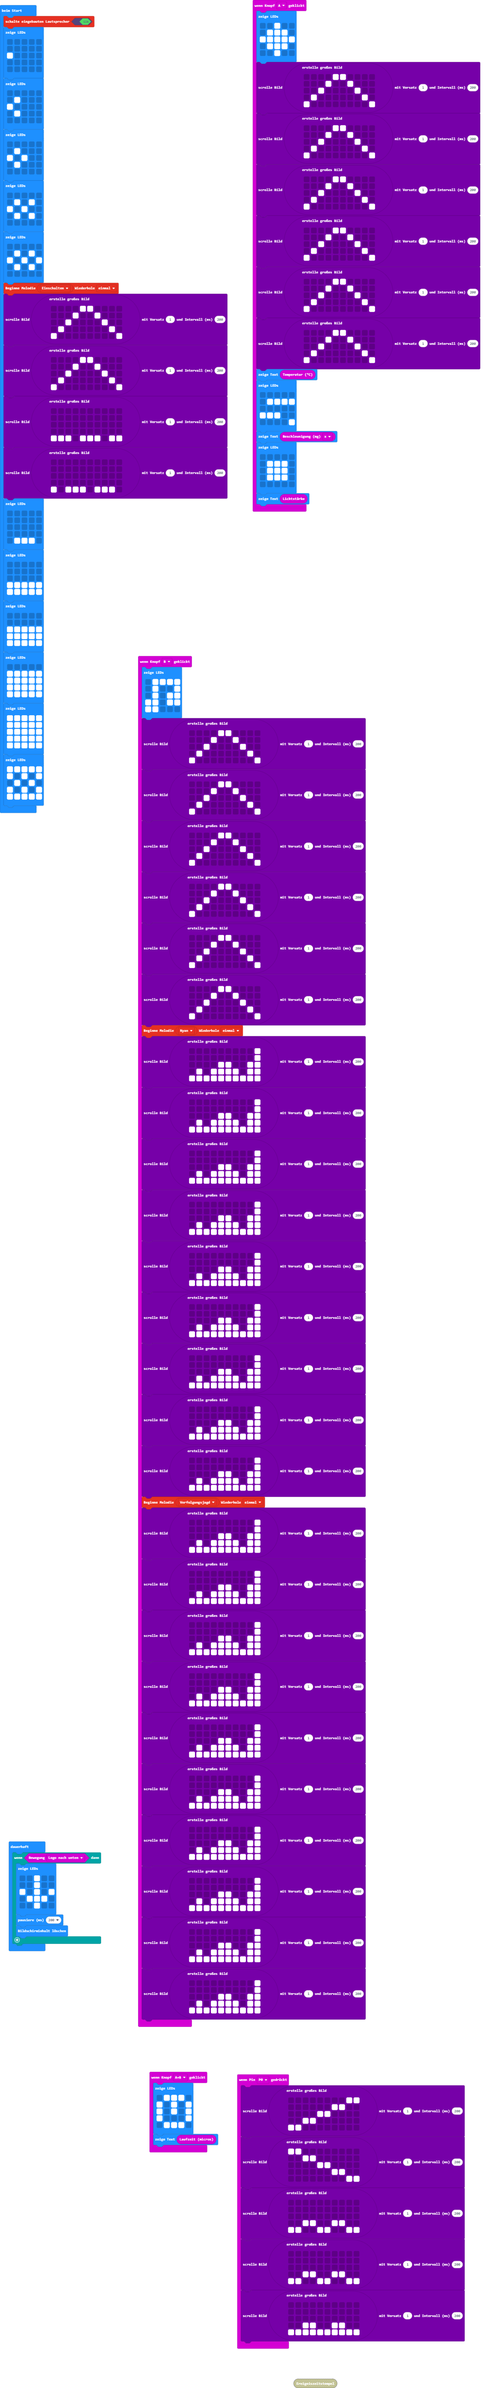
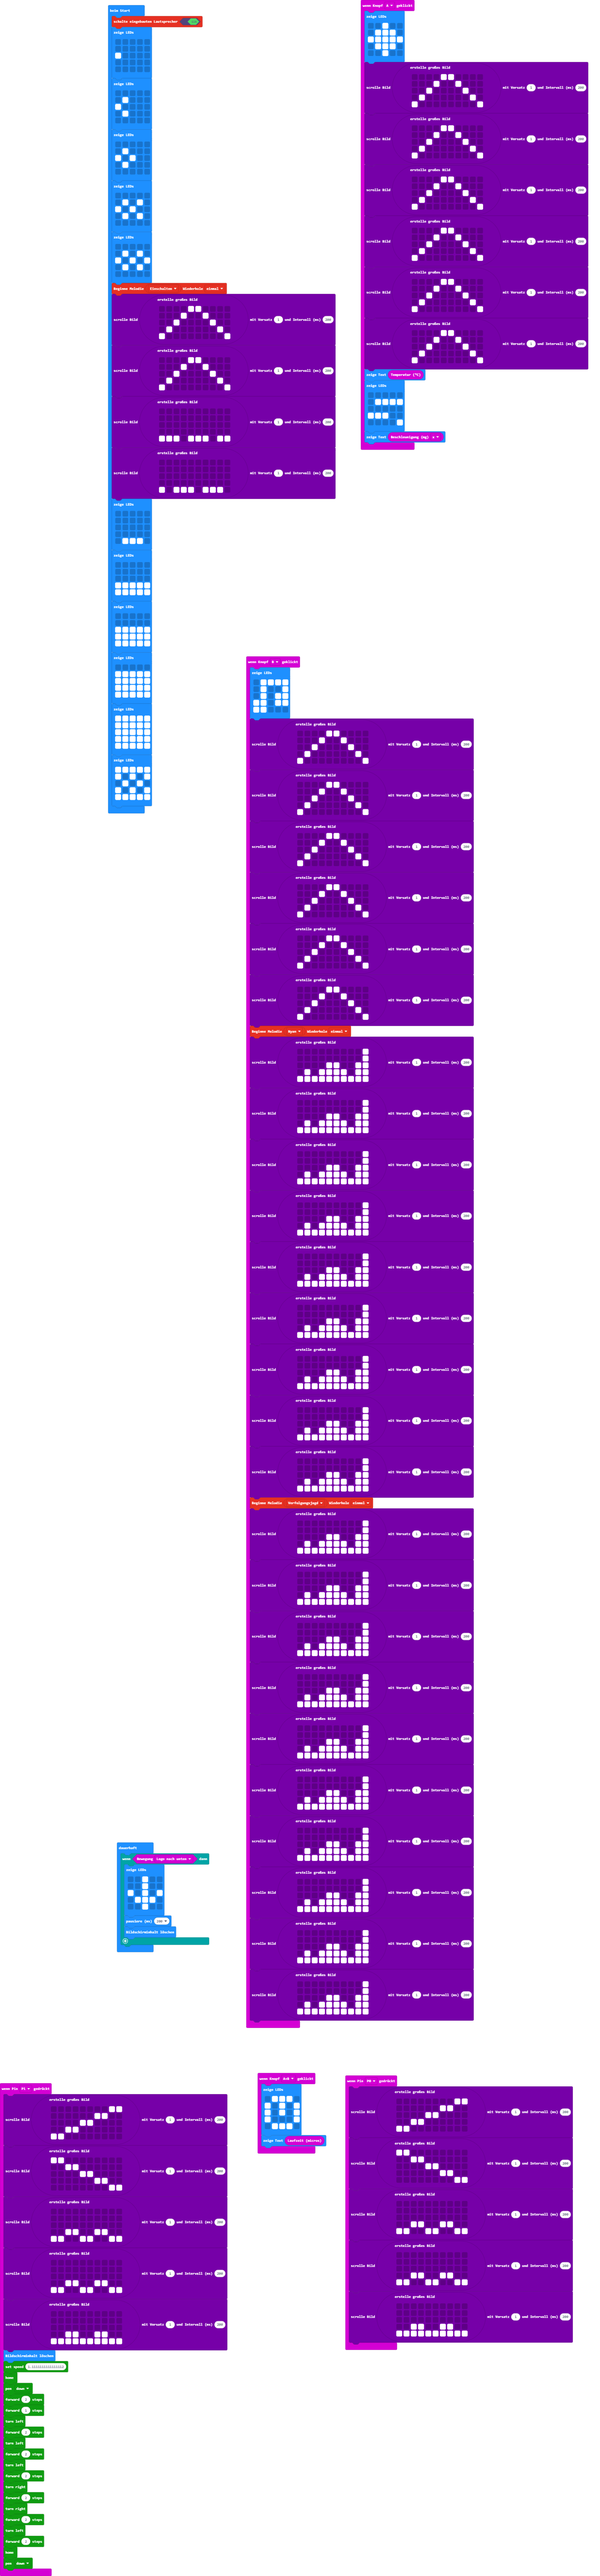
Turtle

diff --git a/main.ts b/main.ts
@@ -94,14 +94,6 @@ input.onButtonPressed(Button.A, function () {
         . . . . #
         `)
     basic.showString("" + (input.acceleration(Dimension.X)))
-    basic.showLeds(`
-        . . . . .
-        . # # # .
-        . # # # .
-        . # # # .
-        . . . . .
-        `)
-    basic.showString("" + (input.lightLevel()))
 })
 input.onButtonPressed(Button.AB, function () {
     basic.showLeds(`
@@ -298,6 +290,63 @@ input.onButtonPressed(Button.B, function () {
         . # . # # # # . # #
         # # # # # # # # # #
         `).scrollImage(1, 200)
+})
+input.onPinPressed(TouchPin.P1, function () {
+    images.createBigImage(`
+        . . . . . . . . # #
+        . . . . . . # # . .
+        . . . . # # . . . .
+        . . # # . . . . . .
+        # # . . . . . . . .
+        `).scrollImage(1, 200)
+    images.createBigImage(`
+        # # . . . . . . . .
+        . . # # . . . . . .
+        . . . . # # . . . .
+        . . . . . . # # . .
+        . . . . . . . . # #
+        `).scrollImage(1, 200)
+    images.createBigImage(`
+        . . . . . . . . . .
+        . . . . . . . . . .
+        . . . . . . . . . .
+        . . # # . . # # . .
+        # # . . # # . . # #
+        `).scrollImage(1, 200)
+    images.createBigImage(`
+        . . . . . . . . . .
+        . . . . . . . . . .
+        . . . . . . . . . .
+        . . # # . . # # . .
+        # # . . # # . . # #
+        `).scrollImage(1, 200)
+    images.createBigImage(`
+        . . . . . . . . . .
+        . . . . . . . . . .
+        . . . . . . . . . .
+        . . # # . . # # . .
+        # # # # # # # # # #
+        `).scrollImage(1, 200)
+    basic.clearScreen()
+    turtle.setSpeed(1.1111111111111112)
+    turtle.home()
+    turtle.pen(TurtlePenMode.Down)
+    turtle.forward(2)
+    turtle.forward(1)
+    turtle.turnLeft()
+    turtle.forward(2)
+    turtle.turnLeft()
+    turtle.forward(2)
+    turtle.turnLeft()
+    turtle.forward(2)
+    turtle.turnRight()
+    turtle.forward(2)
+    turtle.turnRight()
+    turtle.forward(2)
+    turtle.turnLeft()
+    turtle.forward(2)
+    turtle.home()
+    turtle.pen(TurtlePenMode.Down)
 })
 music.setBuiltInSpeakerEnabled(true)
 basic.showLeds(`
